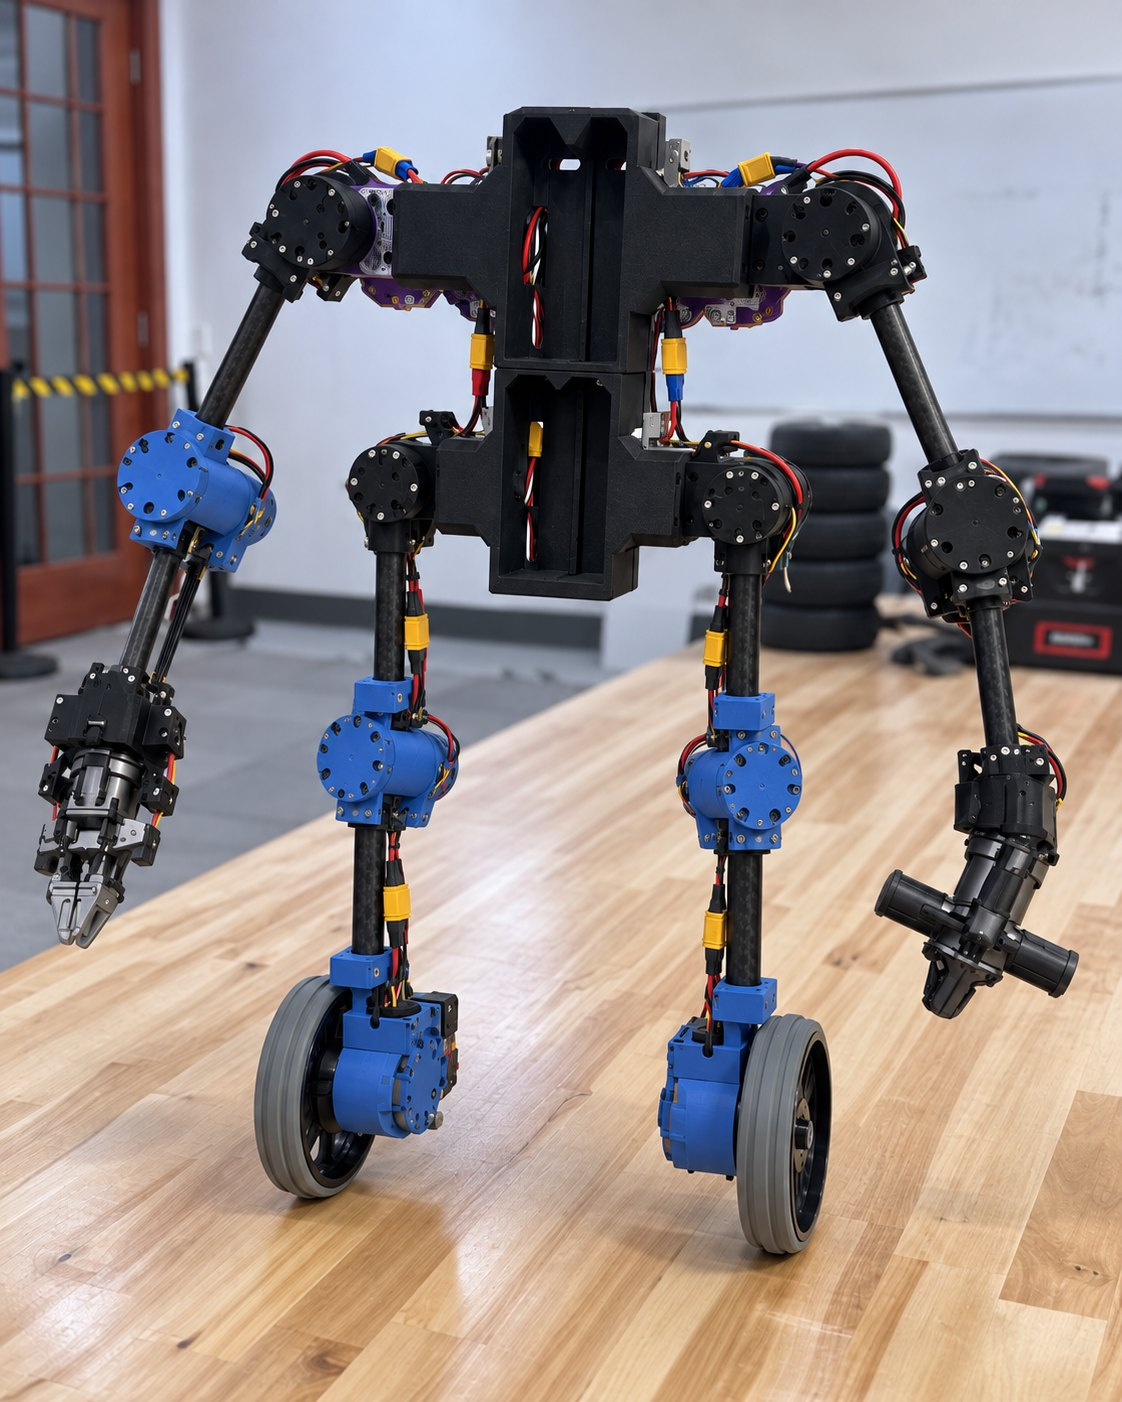
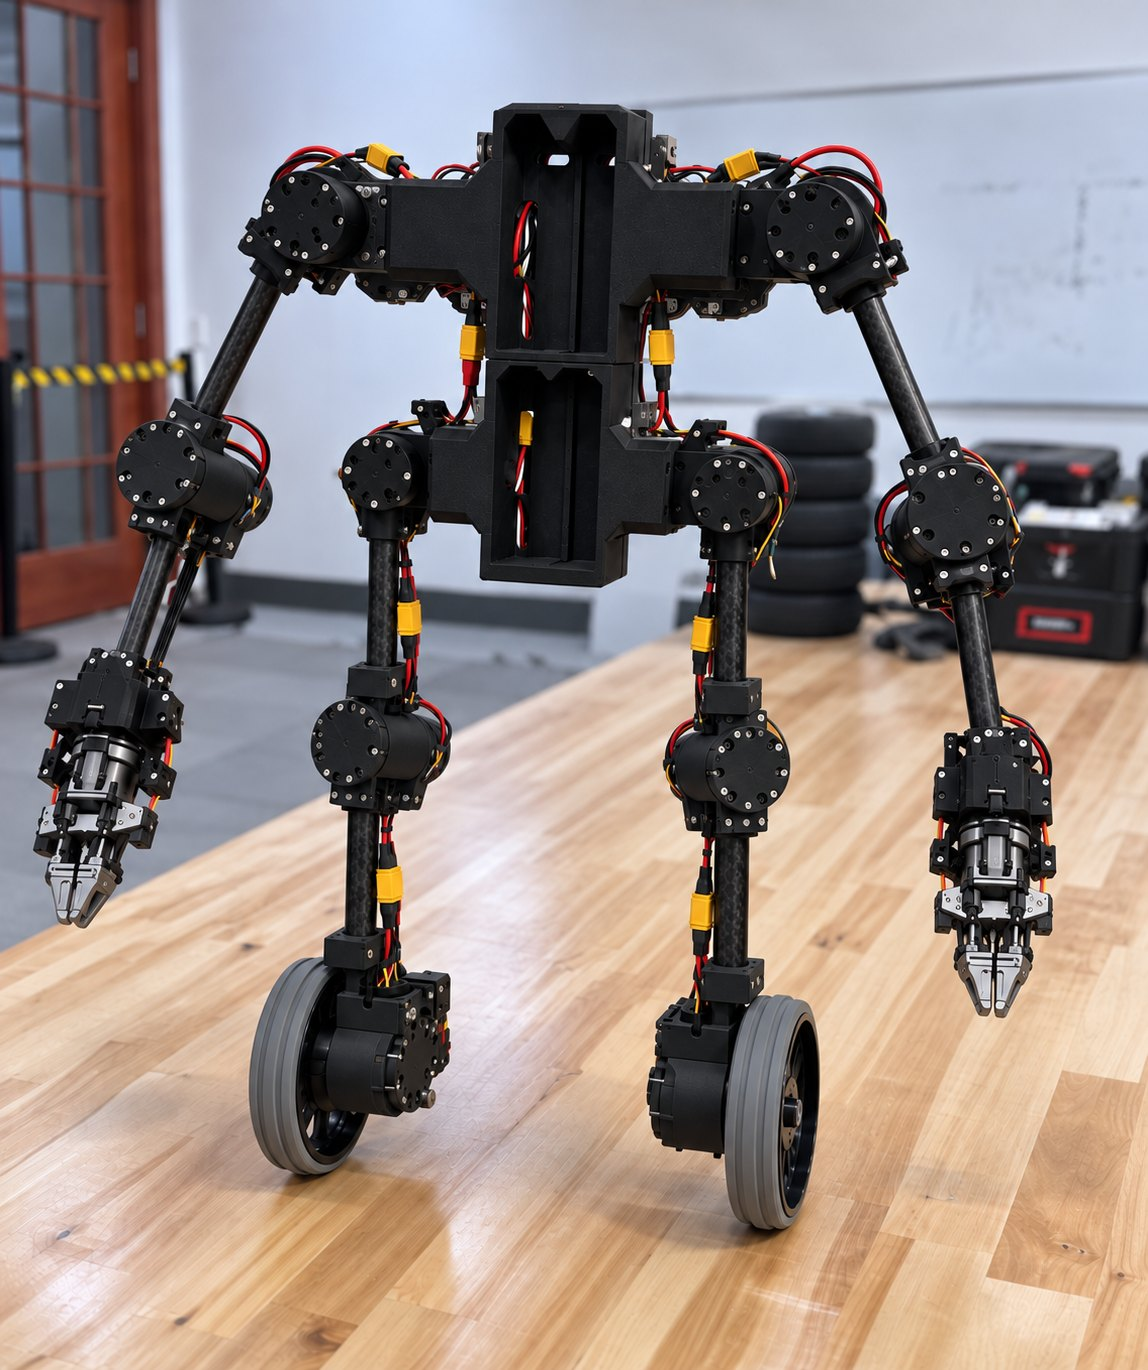
Replace the humanoid photo in the README

diff --git a/README.md b/README.md
@@ -10,7 +10,7 @@ ArthroBot grew out of, and remains part of, Chen's modular robot work
 only the ArthroBot line and runs on the official Isaac Lab.
 
 <p align="center">
-  <img src="docs/media/humanoid_photo.jpg" width="420" alt="The ArthroBot wheel-legged humanoid: black and blue motor modules joined by carbon-fiber rods, two arms (one ending in a parallel gripper) and two wheeled legs">
+  <img src="docs/media/humanoid_photo.jpg" width="420" alt="The ArthroBot wheel-legged humanoid: black motor modules joined by carbon-fiber rods, two arms ending in parallel grippers and two wheeled legs">
 </p>
 
 ## Demos (version 0)
